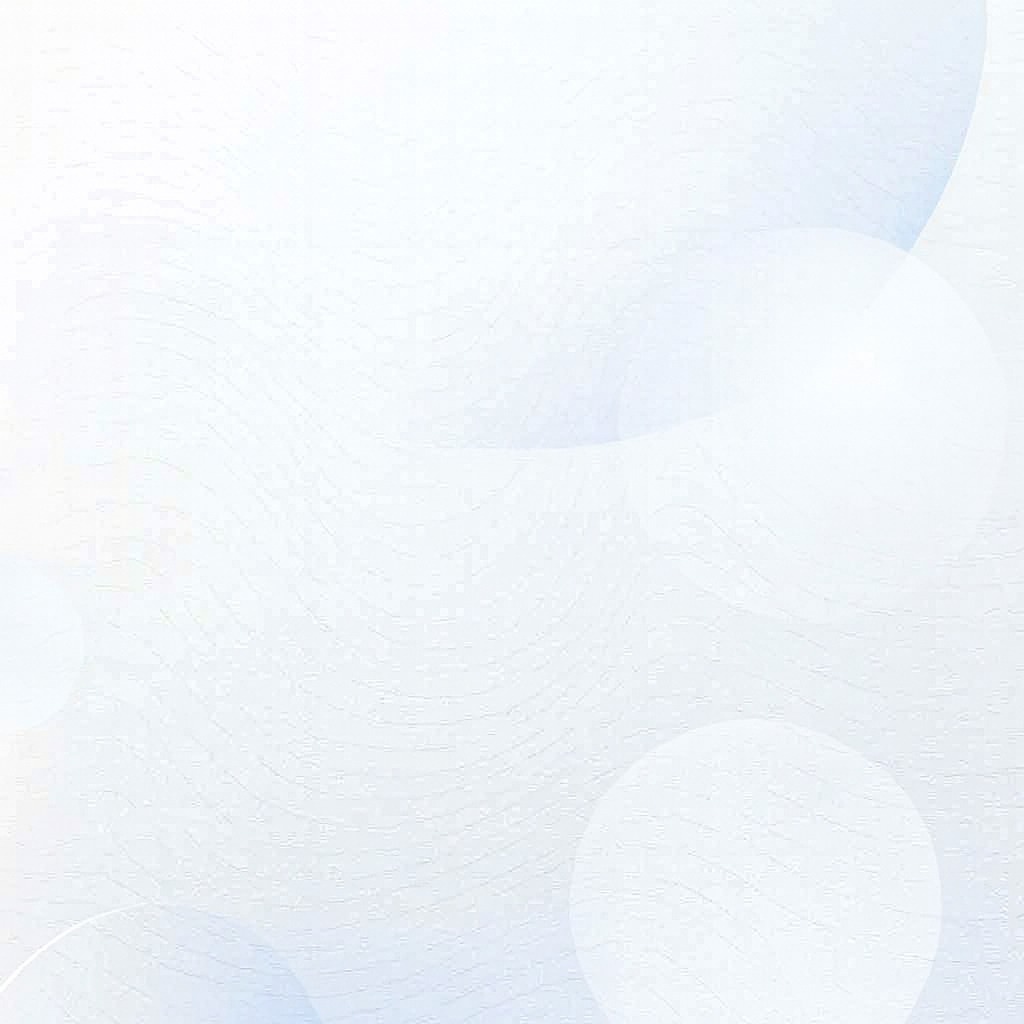
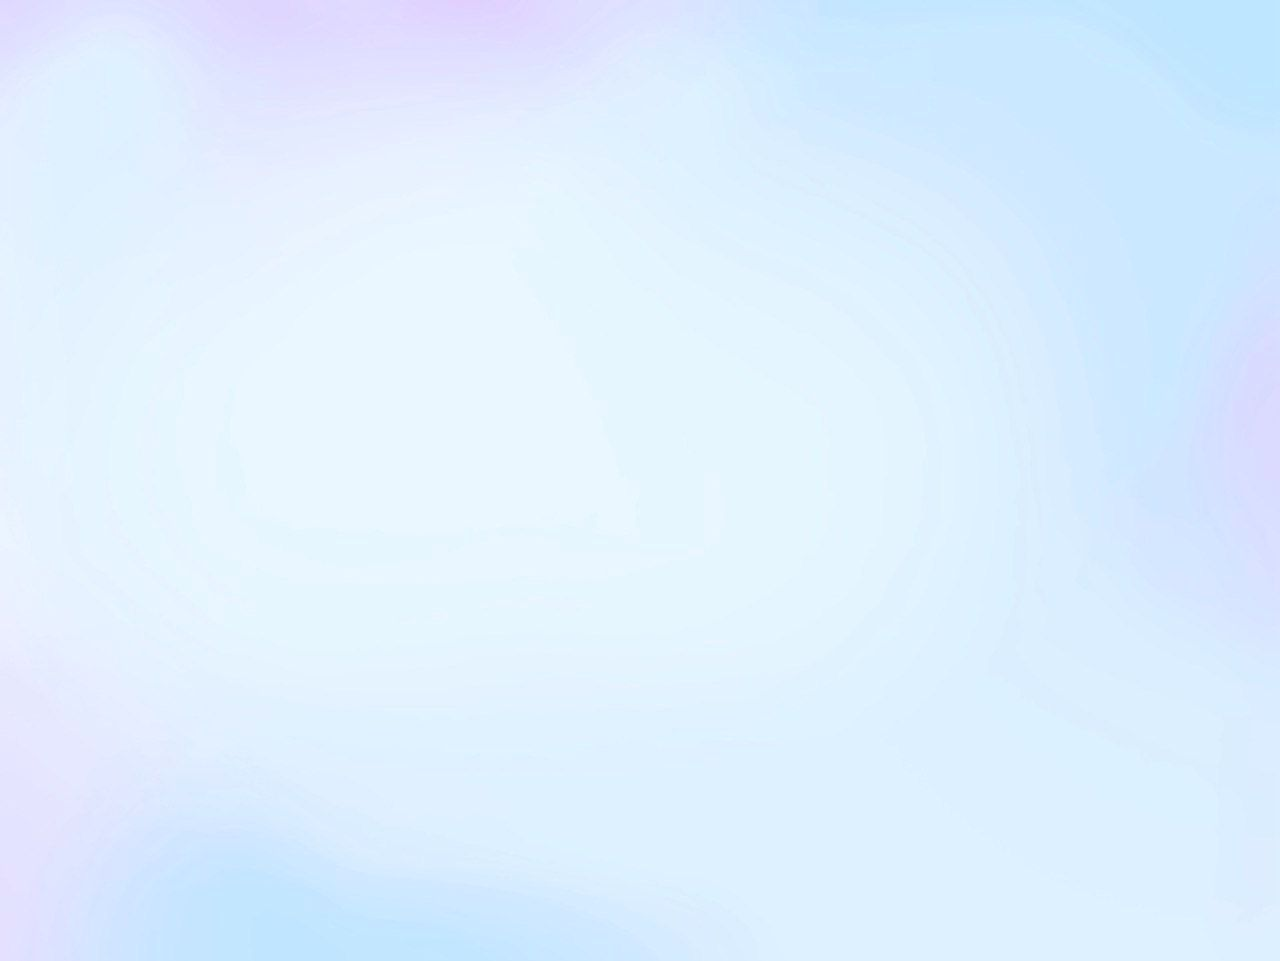
bottoni sidebar ok

Changed region(s): [[0.0, 0.0, 1.0, 0.6243], [0.0312, 0.8429, 0.4375, 1.0], [0.0, 0.9365, 0.0312, 0.9677]]

diff --git a/src/components/Topbar.jsx b/src/components/Topbar.jsx
@@ -37,7 +37,7 @@ const TopBar = () => {
         ${
 					theme === "dark"
 						? "bg-white/10 text-white"
-						: "bg-white/10 text-[#080ebf]"
+						: "bg-white/10 text-[#090c64]"
 				}
       `}> 
 		
@@ -45,14 +45,14 @@ const TopBar = () => {
 				<div>
 					<User
 						size={30}
-						color={theme === "dark" ? "white" : "#080ebf"}
+						color={theme === "dark" ? "white" : "#090c64"}
 						weight="duotone" cursor="pointer"
 					/>
 				</div>
 				<span
 					className={`
           font-bold text-lg transition-colors duration-300
-          ${theme === "dark" ? "text-white" : "text-[#080ebf]"}
+          ${theme === "dark" ? "text-white" : "text-[#090c64]"}
             `}
 				>
 					{t("topbar.benvenuto")} {user?.role || "Guest"}
@@ -67,7 +67,7 @@ const TopBar = () => {
 					{theme === "dark" ? (
 						<Moon size={30} color="white" weight="duotone" cursor="pointer" />
 					) : (
-						<Sun size={30} color="#080ebf" weight="duotone" cursor="pointer" />
+						<Sun size={30} color="#090c64" weight="duotone" cursor="pointer" />
 					)}
 				</button>
 
@@ -75,7 +75,7 @@ const TopBar = () => {
 					to="/settings">
 					<Gear
 						size={30}
-						color={theme === "dark" ? "white" : "#080ebf"}
+						color={theme === "dark" ? "white" : "#090c64"}
 						weight="duotone"
 					/>
 				</Link>
@@ -86,7 +86,7 @@ const TopBar = () => {
 				>
 					<SignOut
 						size={30}
-						color={theme === "dark" ? "white" : "#080ebf"}
+						color={theme === "dark" ? "white" : "#090c64"}
 						weight="duotone" cursor="pointer"
 					/>
 				</button>

diff --git a/src/components/Sidebar.jsx b/src/components/Sidebar.jsx
@@ -46,12 +46,12 @@ const Sidebar = () => {
 				isActive
 					? // === LINK ATTIVO ===
 					  theme === "dark"
-						? "bg-violet-600/80 border-violet-500/60 text-white scale-105 shadow-[0_0_18px_rgba(139,92,246,0.7)]"
-						: "bg-violet-400/80 border-violet-400/60 text-white scale-105 shadow-[0_0_15px_rgba(139,92,246,0.6)]"
+						? " border-violet-500/60 border-2 text-white scale-105 shadow-[0_0_18px_rgba(139,92,246,0.7)]"
+						: "border-violet-500/60 border-2 text-white scale-105 shadow-[0_0_15px_rgba(139,92,246,0.6)]"
 					: // === LINK NON ATTIVO ===
 					theme === "dark"
-					? "bg-[#8d97c8]/60 border-white/20 text-[#080ebf]/80 hover:bg-white/20 hover:border-white/30"
-					: "bg-white/10 border-white/20 text-white/80 hover:bg-white/20 hover:border-white/30 "
+					? "bg-violet/60 border-white/20 text-[#080ebf]/80 hover:bg-violet/40 hover:border-white/30 "
+					: "text-white/80 border-none"
 			}
     `
 					}
